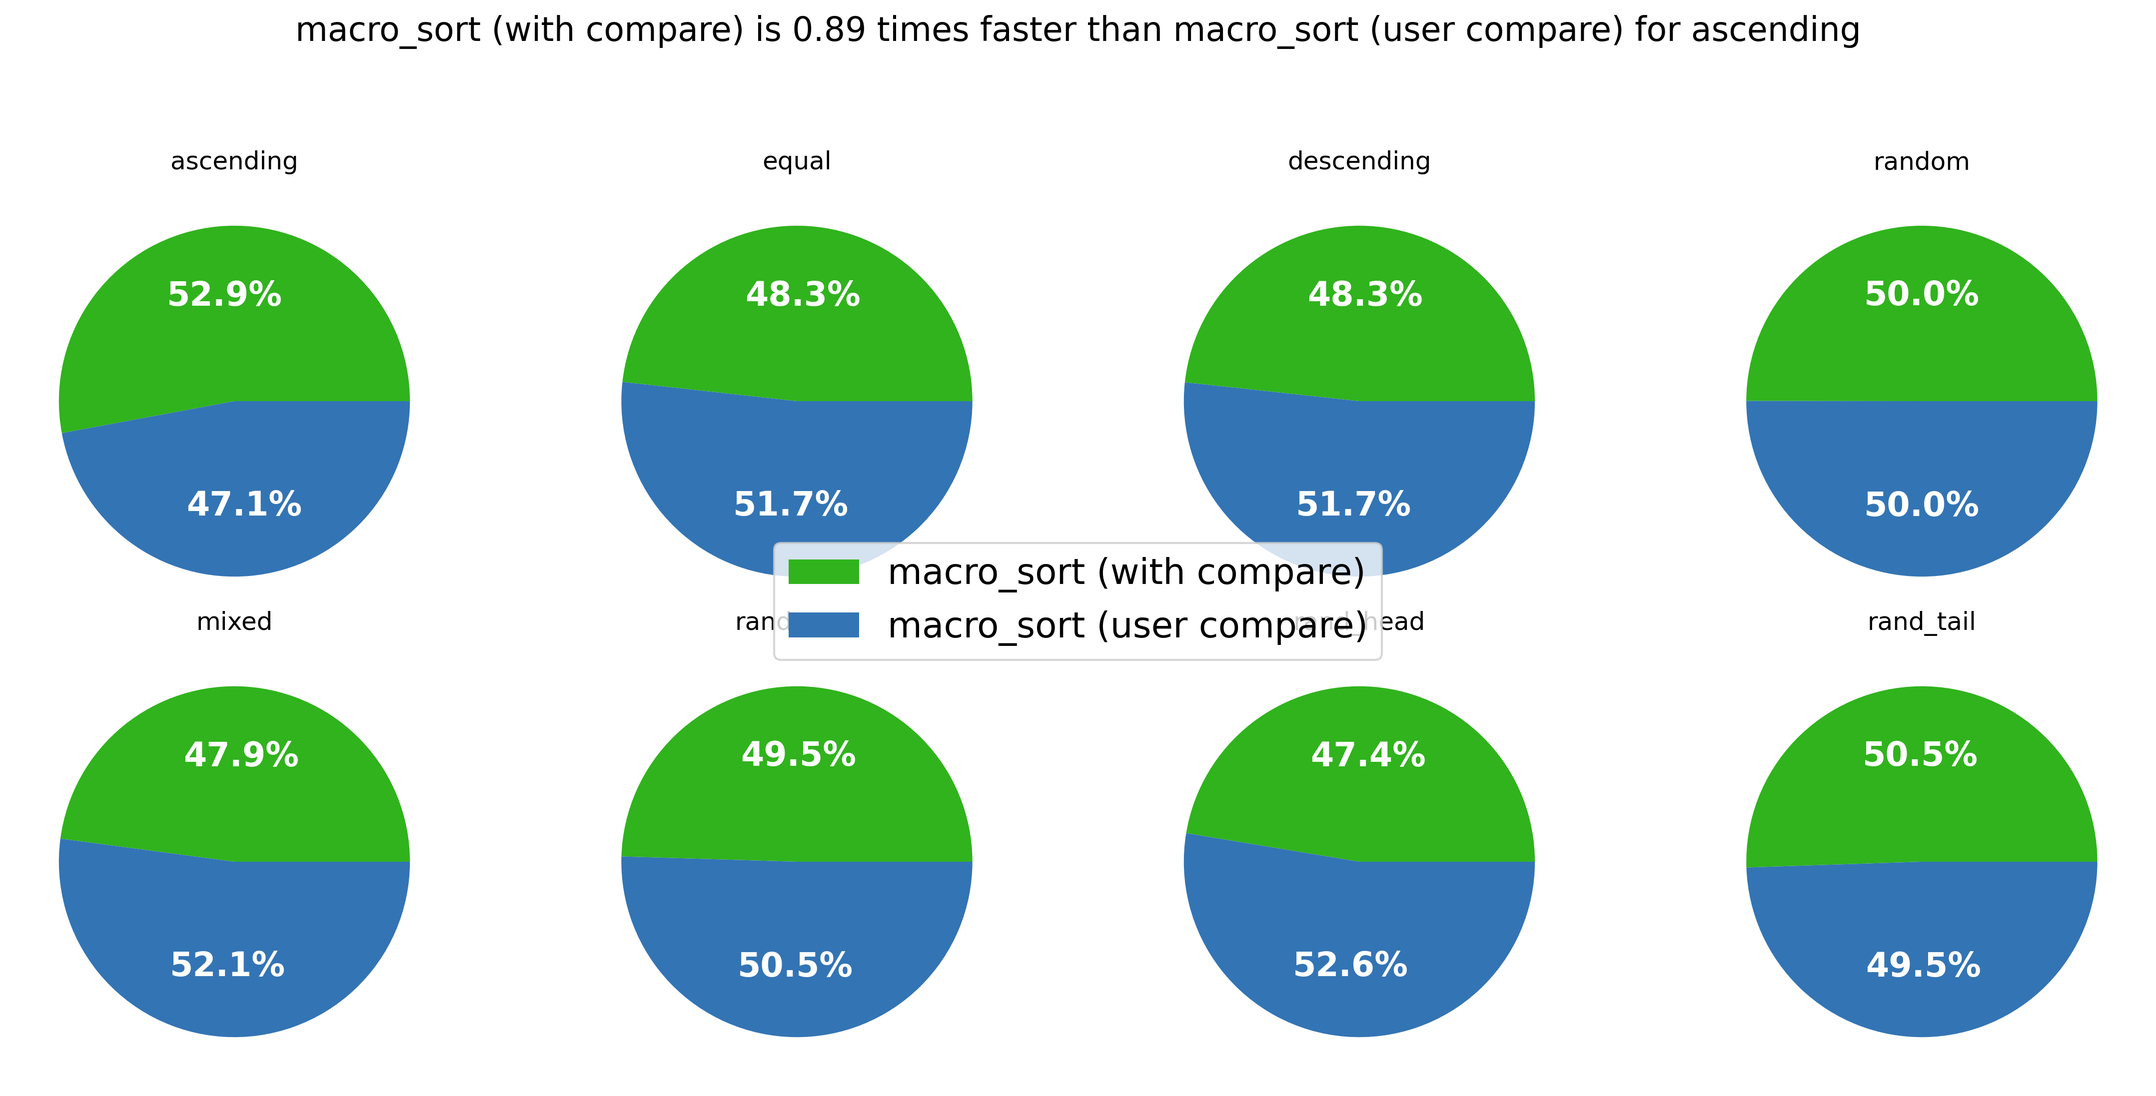
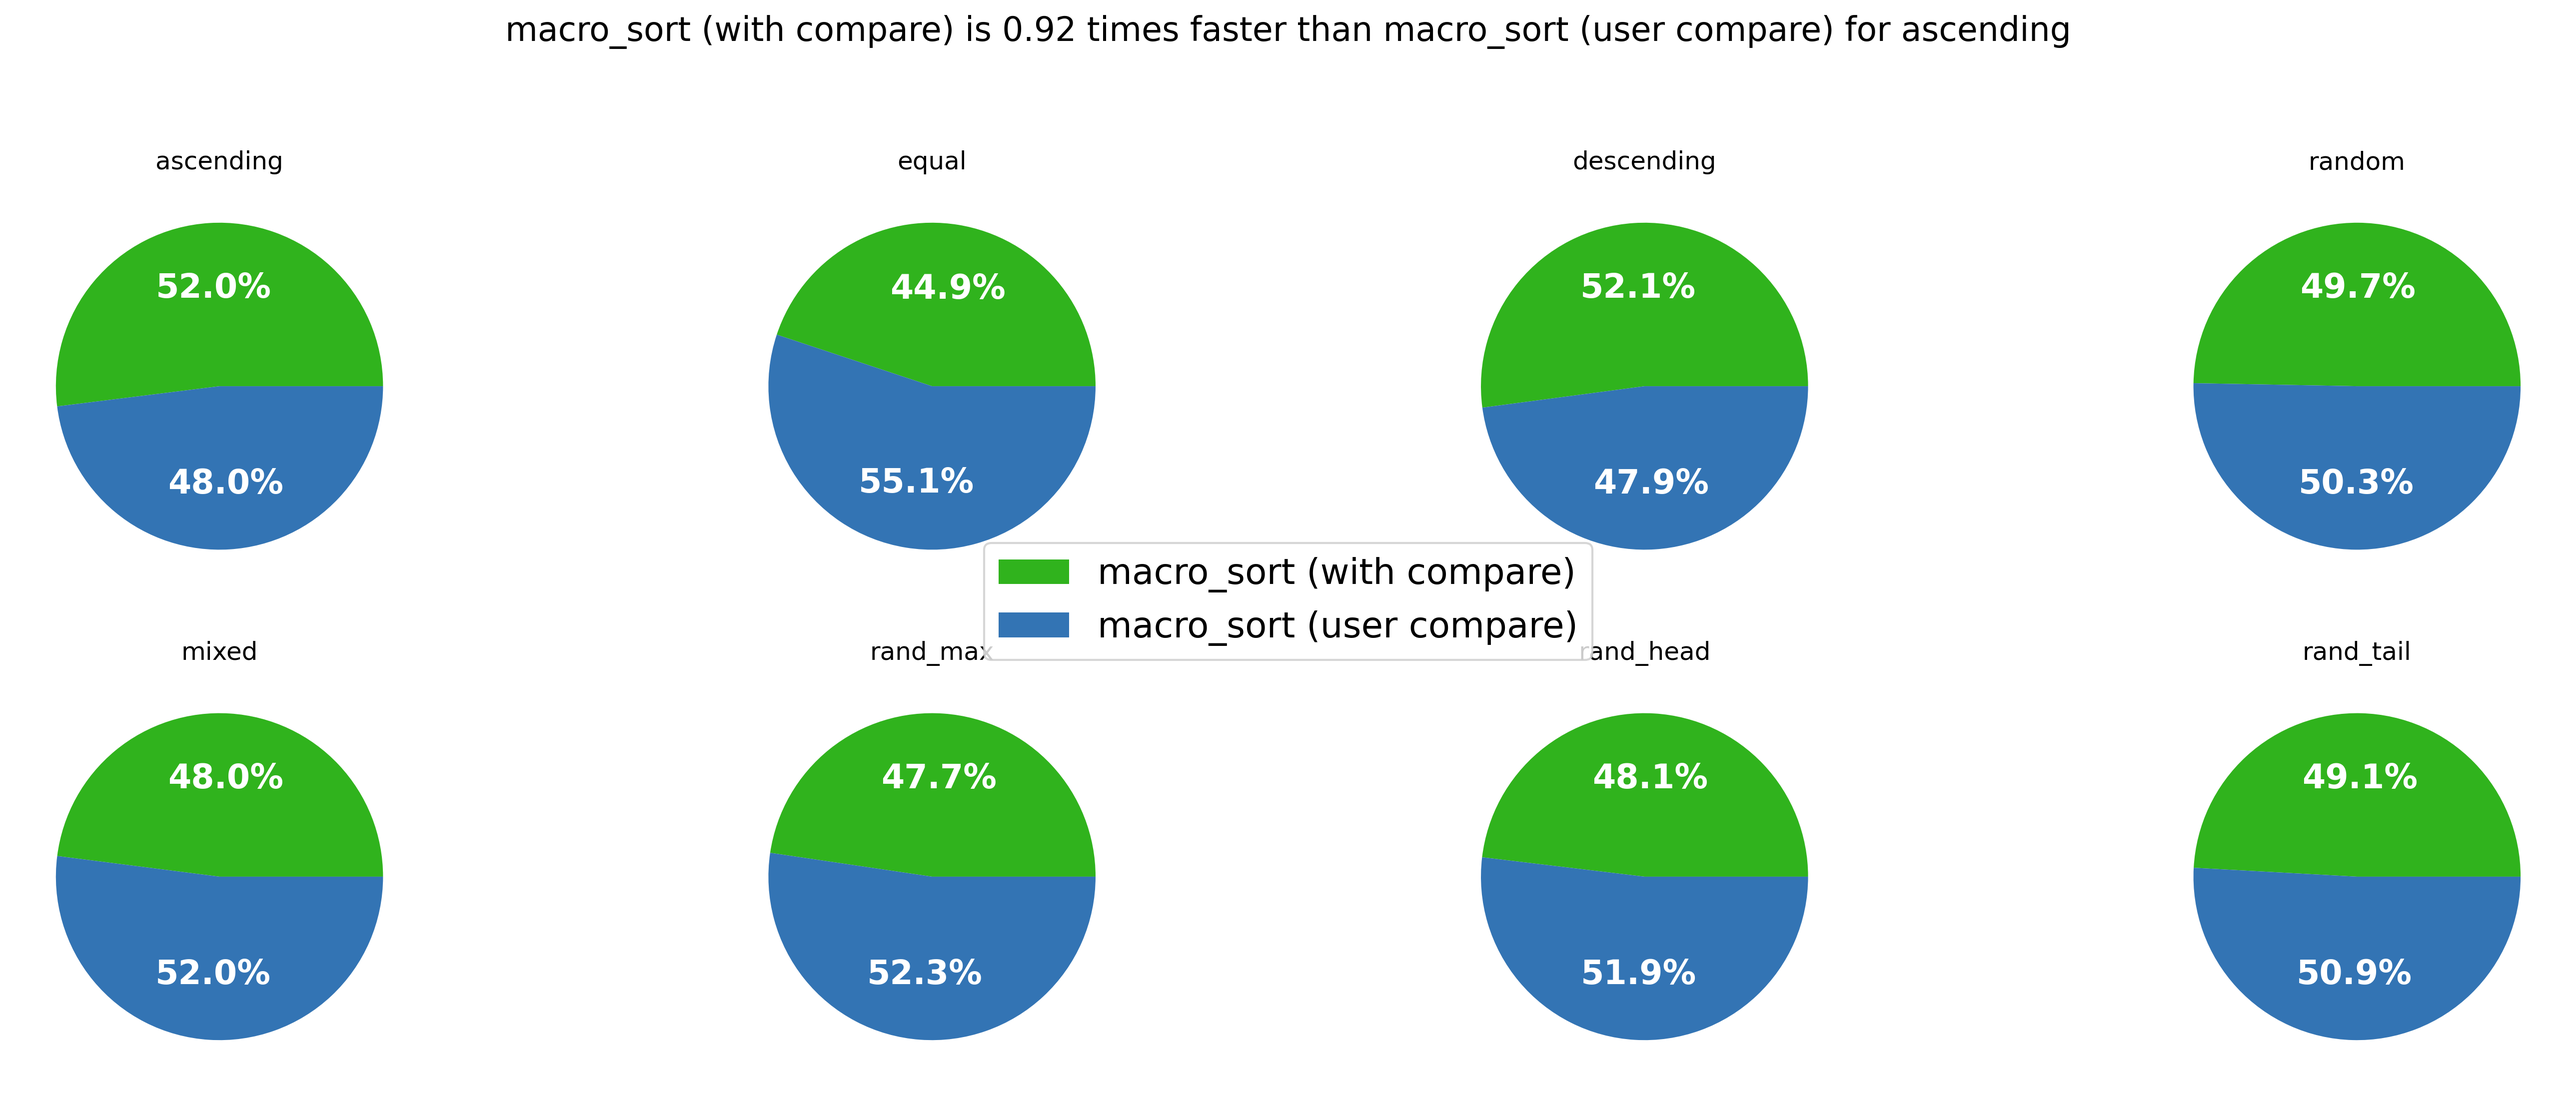
Added update-figures.sh to update PERFORMANCE

diff --git a/bin/macro-plot2.py b/bin/macro-plot2.py
@@ -74,7 +74,7 @@ fig.text(0.5, 0.9, subtitle, ha='center', va='center', fontsize=16)
 plt.subplots_adjust(left=0.17, right=0.83, bottom=0.2, top=0.8)
 
 if len(sys.argv) > 2 and sys.argv[-2] == '-o':
-    plt.subplots_adjust(hspace=0.05,wspace=-0.7)  # adjust spacing
+    plt.subplots_adjust(wspace=-0.5)  # adjust spacing
     fig.savefig(sys.argv[-1], dpi=300, bbox_inches='tight')
 else:
     plt.show()
